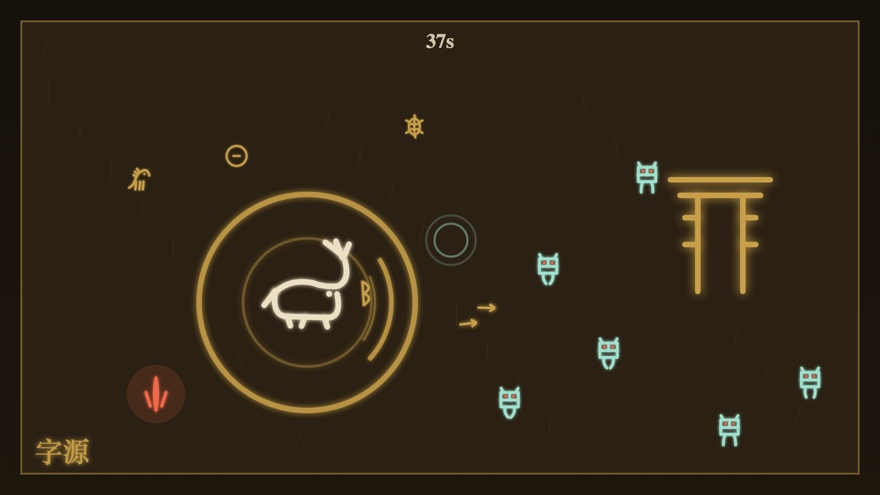
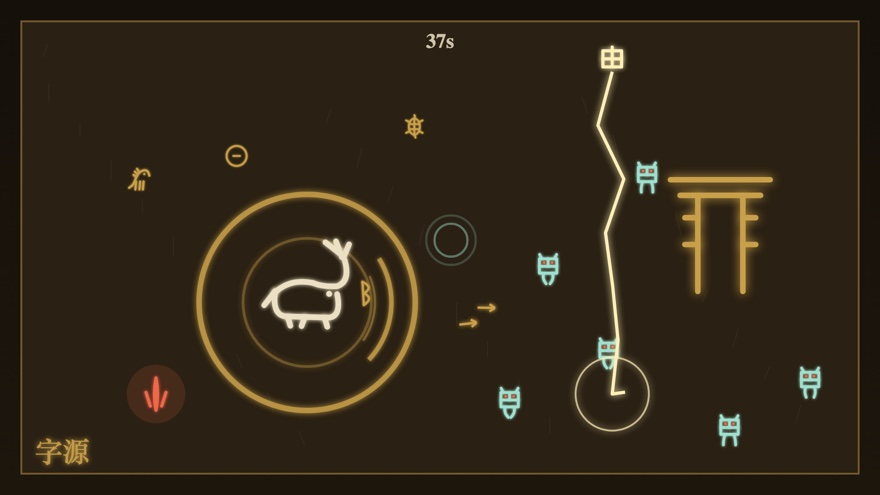
Glyph Run b7: bestiary — 豕 boar, 虎 tiger, 龍 dragon; enemy HP
- Enemy damage layer: tough beasts take multiple hits (hp pips shown,
  white flash on hit, brief hit-invuln so dashes don't melt them)
- 豕 wild boar (wave 2+, 2hp): lines up, shivers, then a straight
  battering charge until it hits a wall — per the zdic 猪 page
- 虎 tiger (wave 3+, 3hp): stalks a circle just out of reach, crouches,
  then pounces
- 龍 dragon (final wave): nine chained segments weave after you; carve
  it apart piece by piece — segments drop glyphs richly
- Heavy strikes (quake, ram, axe, lightning) deal 2-3 damage
- Era-gate overlays announce each new threat; card thumb now shows the
  電 bolt striking the pack

Changed region(s): [[0.6443, 0.0909, 0.7364, 0.8788]]

diff --git a/game/glyphrun.html b/game/glyphrun.html
@@ -100,7 +100,7 @@
   <div>
     <div class="title"><span class="cn">字源</span>GLYPH RUN</div>
     <div class="sub" data-en="Survive the night and you'll travel back in time. You ARE a character — spirits swarm from the dark and your ink strikes back on its own. Fallen glyphs are experience: level up to EVOLVE into related characters, all the way to your oracle-bone form. Every survived wave opens a gate deeper into the past — 楷書 to 甲骨文 — and the night gets harder." data-zh="撑过长夜，就是逆流时光。你就是一个「字」——群鬼自暗处涌来，笔墨自会出手。掉落的古字就是经验：升级即进化成同族新字，直到甲骨文本形。每撑过一波便开一道门，通往更深的古代——从楷书到甲骨文——夜也越难熬。">Survive the night and you'll travel back in time. You ARE a character — spirits swarm from the dark and your ink strikes back on its own. Fallen glyphs are experience: level up to EVOLVE into related characters, all the way to your oracle-bone form. Every survived wave opens a gate deeper into the past — 楷書 to 甲骨文 — and the night gets harder.</div>
-    <a class="back" href="/wip.html" data-en="← back to the wip lab" data-zh="← 返回实验室">← back to the wip lab</a> <span style="color:#3a3a3a;font-size:0.62rem">b6</span>
+    <a class="back" href="/wip.html" data-en="← back to the wip lab" data-zh="← 返回实验室">← back to the wip lab</a> <span style="color:#3a3a3a;font-size:0.62rem">b7</span>
   </div>
   <button class="lang-btn" id="langBtn" onclick="toggleLang()">中文</button>
 </div>
@@ -693,6 +693,68 @@ function drawSpirit(ctx, cx, cy, s, phase, color){
   ctx.restore();
 }
 
+/* --- the tougher beasts: 豕 boar, 虎 tiger, 龍 dragon segments --- */
+function drawBoar(ctx, cx, cy, s, phase, color, face){
+  ctx.save(); ctx.translate(cx, cy); if(face<0) ctx.scale(-1,1);
+  ctx.strokeStyle = color; ctx.fillStyle = color; ctx.shadowColor = color; ctx.shadowBlur = s*0.15;
+  stroke(ctx, s*0.09);
+  const r = s*0.5;
+  ctx.beginPath(); ctx.moveTo(-r,-r*0.15); ctx.quadraticCurveTo(-r*0.2,-r*0.75, r*0.45,-r*0.35);
+  ctx.quadraticCurveTo(r*0.95,-r*0.2, r*0.95, r*0.05); ctx.stroke();
+  ctx.beginPath(); ctx.moveTo(r*0.95,r*0.05); ctx.lineTo(r*0.5,r*0.3); ctx.lineTo(-r*0.85,r*0.28); ctx.lineTo(-r,-r*0.15); ctx.stroke();
+  for(const bx of [-0.5,-0.1,0.3]){ ctx.beginPath(); ctx.moveTo(bx*r,-r*0.5); ctx.lineTo(bx*r+r*0.12,-r*0.82); ctx.stroke(); }
+  const k = Math.sin(phase)*r*0.12;
+  ctx.beginPath(); ctx.moveTo(-r*0.55,r*0.28); ctx.lineTo(-r*0.55+k,r*0.62); ctx.stroke();
+  ctx.beginPath(); ctx.moveTo(r*0.3,r*0.28); ctx.lineTo(r*0.3-k,r*0.62); ctx.stroke();
+  ctx.beginPath(); ctx.moveTo(r*0.8,r*0.12); ctx.lineTo(r*1.04,r*0.32); ctx.stroke();
+  ctx.save(); ctx.fillStyle = '#f0674a'; ctx.shadowColor = '#f0674a';
+  ctx.beginPath(); ctx.arc(r*0.55,-r*0.15,r*0.08,0,Math.PI*2); ctx.fill(); ctx.restore();
+  ctx.restore();
+}
+function drawTiger(ctx, cx, cy, s, phase, color, face, crouch){
+  ctx.save(); ctx.translate(cx, cy); if(face<0) ctx.scale(-1,1);
+  if(crouch) ctx.scale(1, 0.82);
+  ctx.strokeStyle = color; ctx.fillStyle = color; ctx.shadowColor = color; ctx.shadowBlur = s*0.15;
+  stroke(ctx, s*0.08);
+  const r = s*0.5;
+  ctx.beginPath(); ctx.moveTo(-r*0.95,-r*0.1); ctx.quadraticCurveTo(-r*0.1,-r*0.6, r*0.5,-r*0.42); ctx.stroke(); // back
+  ctx.beginPath();                                                                                                // head + open jaw
+  ctx.moveTo(r*0.5,-r*0.42); ctx.quadraticCurveTo(r*0.95,-r*0.5, r*1.0,-r*0.15);
+  ctx.lineTo(r*0.6,0); ctx.moveTo(r*1.0,r*0.05); ctx.lineTo(r*0.62,r*0.18); ctx.stroke();
+  ctx.beginPath(); ctx.moveTo(r*0.62,r*0.18); ctx.lineTo(r*0.4,r*0.3); ctx.lineTo(-r*0.8,r*0.3); ctx.stroke();    // belly
+  ctx.beginPath(); ctx.moveTo(-r*0.8,r*0.3); ctx.lineTo(-r*0.95,-r*0.1); ctx.stroke();
+  ctx.beginPath(); ctx.moveTo(-r*0.95,-r*0.15); ctx.quadraticCurveTo(-r*1.4,-r*0.5,-r*1.3,-r*0.9); ctx.stroke();  // tail
+  for(const st of [-0.45,-0.12,0.2]){                                                                             // stripes
+    ctx.beginPath(); ctx.moveTo(st*r,-r*0.5); ctx.lineTo(st*r-r*0.12,-r*0.05); ctx.stroke();
+  }
+  const k = Math.sin(phase)*r*0.14;
+  ctx.beginPath(); ctx.moveTo(-r*0.5,r*0.3); ctx.lineTo(-r*0.5+k,r*0.66); ctx.stroke();
+  ctx.beginPath(); ctx.moveTo(r*0.25,r*0.3); ctx.lineTo(r*0.25-k,r*0.66); ctx.stroke();
+  ctx.save(); ctx.fillStyle = '#f0674a'; ctx.shadowColor = '#f0674a';
+  ctx.beginPath(); ctx.arc(r*0.68,-r*0.3,r*0.09,0,Math.PI*2); ctx.fill(); ctx.restore();
+  ctx.restore();
+}
+function drawDragonSeg(ctx, sp, color){
+  const r = 15;
+  ctx.save(); ctx.translate(sp.x, sp.y);
+  ctx.strokeStyle = color; ctx.fillStyle = color; ctx.shadowColor = color; ctx.shadowBlur = 6;
+  stroke(ctx, 2.6);
+  if(sp._prev){                                          // body ring + dorsal fin
+    ctx.beginPath(); ctx.arc(0,0,r,0,Math.PI*2); ctx.stroke();
+    ctx.beginPath(); ctx.arc(0,0,r*0.45,-0.6,0.6); ctx.stroke();
+    ctx.beginPath(); ctx.moveTo(0,-r); ctx.lineTo(0,-r-7); ctx.stroke();
+  } else {                                               // the head: horns, whisker, jaw
+    ctx.beginPath(); ctx.arc(0,0,r*1.15,0,Math.PI*2); ctx.stroke();
+    ctx.beginPath(); ctx.moveTo(-r*0.4,-r); ctx.lineTo(-r*0.9,-r*1.8); ctx.stroke();
+    ctx.beginPath(); ctx.moveTo(r*0.4,-r); ctx.lineTo(r*0.9,-r*1.8); ctx.stroke();
+    ctx.beginPath(); ctx.moveTo(r*1.1,r*0.2); ctx.quadraticCurveTo(r*1.9,r*0.4,r*2.1,r*0.1); ctx.stroke();
+    ctx.beginPath(); ctx.moveTo(r*0.5,r*0.5); ctx.lineTo(r*1.4,r*0.85); ctx.stroke();
+    ctx.save(); ctx.fillStyle = '#f0674a'; ctx.shadowColor = '#f0674a';
+    ctx.beginPath(); ctx.arc(r*0.3,-r*0.3,r*0.18,0,Math.PI*2); ctx.fill(); ctx.restore();
+  }
+  ctx.restore();
+}
+
 /* --- 門 gate goal --- */
 function drawGate(ctx, x, groundY, h, color, glow){
   ctx.save();
@@ -891,7 +953,7 @@ const Game = (function(){
   let selChar = 'ren', lastSkillTxt = '', bufSkill = 0, shakeT = 0, slowAllT = 0;
   let player, keys = {}, joy = {x:0, y:0, on:false};
   let spirits = [], pickups = [], fires = [], clouds = [], fx = [], pedestals = [], projectiles = [], bolts = [];
-  let boltT = 5;
+  let boltT = 5, dragonDone = false;
   let weapons = [], wTimes = [];
 
   function overlay(id, show){ $(id).classList.toggle('show', show); }
@@ -904,7 +966,7 @@ const Game = (function(){
     era = ERAS[ERA_ORDER[i]];
     wave = WAVES[i];
     spirits = []; pickups = []; fires = []; clouds = []; fx = []; pedestals = []; projectiles = []; bolts = [];
-    boltT = 5;
+    boltT = 5; dragonDone = false;
     wTimes = [wave.len*0.6, wave.len*0.28];
     waveT = wave.len; spawnT = 1.2; fireT = 3.5; gate = null; slowAllT = 0;
     const c = C();
@@ -957,7 +1019,7 @@ const Game = (function(){
       const cf = cs.forms[level], fe = ERAS[ERA_ORDER[fi]], te = ERAS[ERA_ORDER[toIdx]];
       msg = `<b style="color:#e8b04a">${fe.sub} → ${te.sub}</b>`
           + `<br>${cf.ch} ${cf.py} · ${t(cf.mean_en, cf.mean_zh)} ${zdicLink(cf.ch)}`
-          + `<br><span style="color:#8bc34a;font-size:0.86em">${t('the night deepens — spirits come faster; a heart is mended','夜更深了——群鬼更急；补上一颗心')}${toIdx >= 2 ? t(' — and the storm gathers: 電 strikes from the sky (rain over 申, the bolt itself)','——风雨将至：「電」自天而击（雨在「申」上，申即闪电）') : ''}</span>`
+          + `<br><span style="color:#8bc34a;font-size:0.86em">${t('the night deepens — spirits come faster; a heart is mended','夜更深了——群鬼更急；补上一颗心')}${toIdx===1 ? t(' — and wild 豕 boars charge the field','——野「豕」直线冲撞') : toIdx===2 ? t(' — 虎 stalks the edges, and the storm gathers: 電 strikes from the sky (rain over 申, the bolt itself)','——「虎」环伺于侧；风雨将至，「電」自天而击（雨在「申」上，申即闪电）') : toIdx===3 ? t(' — and 龍 coils through the last night: carve it apart segment by segment','——「龍」盘旋于最后的长夜：须逐节斩落') : ''}</span>`
           + (level < 3 ? `<br><span style="font-size:0.8em;color:#8a8a8a">${t('gather glyphs to evolve','集字以进化')} · ${coins}/${LV_XP[level+1]}</span>` : '');
     } else {
       msg = t(`${cs.forms[level].ch} · the oldest gate is behind you`, `${cs.forms[level].ch} · 最古老的门已在身后`);
@@ -1013,10 +1075,17 @@ const Game = (function(){
 
   /* ---------- combat helpers ---------- */
   function addFx(o){ o.max = o.t; fx.push(o); }
+  function hurtSpirit(s, dmg){
+    if(s.dead || (s.iT||0) > 0) return;
+    s.hp = (s.hp||1) - dmg;
+    s.iT = 0.22;
+    if(s.hp <= 0){ killSpirit(s); return; }
+    addFx({kind:'poof', x:s.x, y:s.y, t:0.15, r:10});
+  }
   function killSpirit(s){
     s.dead = true;
     addFx({kind:'poof', x:s.x, y:s.y, t:0.3, r:20});
-    if(Math.random() < 0.35){
+    if(Math.random() < (s.type==='long' ? 0.6 : 0.35)){
       pickups.push({x:s.x, y:s.y, ch:GLYPH_KEYS[(Math.random()*GLYPH_KEYS.length)|0], t:9, bob:Math.random()*6});
     }
     const c = C();
@@ -1127,7 +1196,7 @@ const Game = (function(){
         const qr = c.quakeR[tier];
         addFx({kind:'quake', x:player.x, y:player.y, t:0.45, r:qr});
         shakeT = 0.3; player.sq = -0.25;
-        for(const s of spirits){ if(!s.dead && Math.hypot(s.x-player.x, s.y-player.y) <= qr+14) killSpirit(s); }
+        for(const s of spirits){ if(!s.dead && Math.hypot(s.x-player.x, s.y-player.y) <= qr+14) hurtSpirit(s, 2); }
         if(tier >= c.snuffTier) fires = fires.filter(f=>Math.hypot(f.x-player.x, f.y-player.y) > qr);  // 豫: stamp the fires out
         if(tier >= c.slowTier) slowAllT = 1.6;                     // 為: the whole field staggers
       }
@@ -1175,7 +1244,7 @@ const Game = (function(){
           addFx({kind:'ringatk', x:player.x, y:player.y, r:range, t:0.22});
         }
         cand.sort((a,b)=>a[0]-b[0]);                       // the ink only cuts so deep
-        for(const [,s] of cand.slice(0, c.atk.hits)) killSpirit(s);
+        for(const [,s] of cand.slice(0, c.atk.hits)) hurtSpirit(s, 1);
         player.atkT = c.atk.int * ATK_INT[tier];
       } else {
         player.atkT = 0.06;
@@ -1188,7 +1257,7 @@ const Game = (function(){
       for(const k of [0, Math.PI]){
         const ox = player.x + Math.cos(player.orbA+k)*58, oy = player.y + Math.sin(player.orbA+k)*58;
         for(const s of spirits){
-          if(!s.dead && Math.hypot(s.x-ox, s.y-oy) < 24) killSpirit(s);
+          if(!s.dead && Math.hypot(s.x-ox, s.y-oy) < 24) hurtSpirit(s, 1);
         }
       }
     }
@@ -1232,7 +1301,7 @@ const Game = (function(){
         }
         if(!cand.length){ w.t = 0.12; continue; }
         cand.sort((a,b)=>a[0]-b[0]);
-        for(const [,s] of cand.slice(0, W.hits[lv])) killSpirit(s);
+        for(const [,s] of cand.slice(0, W.hits[lv])) hurtSpirit(s, 1);
         addFx({kind:'slash', x:player.x, y:player.y, ang:back, r:W.reach[lv]-8, t:0.18});
         w.recoil = 1;
         w.t = W.int[lv];
@@ -1247,7 +1316,7 @@ const Game = (function(){
         }
         if(!cand.length){ w.t = 0.12; continue; }
         cand.sort((a,b)=>a[0]-b[0]);
-        for(const [,s] of cand.slice(0, W.hits[lv])) killSpirit(s);
+        for(const [,s] of cand.slice(0, W.hits[lv])) hurtSpirit(s, 1);
         addFx({kind:'lance', x:player.x, y:player.y, ang:fwd, r:W.reach[lv], t:0.16});
         w.recoil = 1;
         w.t = W.int[lv];
@@ -1256,7 +1325,7 @@ const Game = (function(){
         if(!chop){ w.t = 0.12; continue; }
         const sr = W.splash[lv];
         for(const s of spirits){
-          if(!s.dead && Math.hypot(s.x-chop.x, s.y-chop.y) <= sr) killSpirit(s);
+          if(!s.dead && Math.hypot(s.x-chop.x, s.y-chop.y) <= sr) hurtSpirit(s, 2);
         }
         addFx({kind:'ringatk', x:chop.x, y:chop.y, r:sr, t:0.2});
         w.recoil = 1;
@@ -1270,7 +1339,7 @@ const Game = (function(){
         }
         if(!cand.length){ w.t = 0.1; continue; }
         cand.sort((a,b)=>a[0]-b[0]);
-        for(const [,s] of cand.slice(0, W.hits[lv])) killSpirit(s);
+        for(const [,s] of cand.slice(0, W.hits[lv])) hurtSpirit(s, 1);
         addFx({kind:'ringatk', x:player.x, y:player.y, r:W.reach[lv], t:0.16});
         w.recoil = 1;
         w.t = W.int[lv];
@@ -1293,7 +1362,7 @@ const Game = (function(){
       if(p.x < WALL || p.x > CW-WALL || p.y < WALL || p.y > CH-WALL) p.t = 0;
       for(const s of spirits){
         if(s.dead || p.pierce <= 0) continue;
-        if(Math.hypot(s.x-p.x, s.y-p.y) < 18){ killSpirit(s); p.pierce--; }
+        if(Math.hypot(s.x-p.x, s.y-p.y) < 18){ hurtSpirit(s, 1); p.pierce--; }
       }
       if(p.pierce <= 0) p.t = 0;
     }
@@ -1317,7 +1386,12 @@ const Game = (function(){
             const px = side===0? WALL+8 : side===1? CW-WALL-8 : WALL+20+Math.random()*(CW-WALL*2-40);
             const py = side===2? WALL+14 : side===3? CH-WALL-8 : WALL+20+Math.random()*(CH-WALL*2-40);
             if(Math.hypot(px-player.x, py-player.y) > 130 || tries===5){   // never on top of the player
-              spirits.push({x:px, y:py, phase:Math.random()*6, dead:false,
+              const roll = Math.random();
+              let type = 'gui', hp = 1, cr = 29;
+              if(stageIdx >= 1 && roll < [0,0.18,0.2,0.2][stageIdx]){ type = 'shi'; hp = 2; cr = 30; }
+              else if(stageIdx >= 2 && roll > 1 - [0,0,0.12,0.18][stageIdx]){ type = 'hu'; hp = 3; cr = 34; }
+              spirits.push({x:px, y:py, phase:Math.random()*6, dead:false, type, hp, cr,
+                            st:0, stT:1.5, face:1, dirn:Math.random()<0.5?-1:1,
                             spd: wave.spd*(1+0.35*prog)*(0.85+Math.random()*0.3)});
               addFx({kind:'poof', x:px, y:py, t:0.3, r:18});
               break;
@@ -1335,6 +1409,15 @@ const Game = (function(){
             }
           }
         }
+        // 龍 coils in from the east, halfway through the last night
+        if(stageIdx === 3 && !dragonDone && waveT <= wave.len*0.55){
+          dragonDone = true;
+          for(let i=0; i<9; i++){
+            spirits.push({x:CW-WALL-10, y:WALL+70+i*28, phase:Math.random()*6, dead:false,
+                          type:'long', order:i, hp: i===0?3:2, cr:26, st:0, stT:0, face:-1, dirn:1, spd:95});
+          }
+          addFx({kind:'levelup', x:CW-WALL-40, y:WALL+90, t:0.9, r:80, ch:'龍'});
+        }
         // a weapon surfaces from the dust
         if(wTimes.length && waveT <= wTimes[0]){
           wTimes.shift();
@@ -1350,29 +1433,73 @@ const Game = (function(){
       stageClear(); return;
     }
 
+    // dragon chain bookkeeping: each segment trails the nearest living one ahead
+    const dsegs = spirits.filter(o=>!o.dead && o.type==='long').sort((a,b)=>a.order-b.order);
+    for(let i=0; i<dsegs.length; i++) dsegs[i]._prev = i===0 ? null : dsegs[i-1];
+
     // --- spirits seek ---
     for(const s of spirits){
       if(s.dead) continue;
       s.phase += dt*8;
+      if((s.iT||0) > 0) s.iT -= dt;
       if((s.rootT||0) > 0){ s.rootT -= dt; }
       else {
         let sf = (slowAllT>0 ? 0.45 : 1);
         for(const cl of clouds){ if(Math.hypot(s.x-cl.x, s.y-cl.y) < cl.r){ sf *= 0.45; break; } }
         const ddx = player.x-s.x, ddy = player.y-s.y, d = Math.hypot(ddx,ddy)||1;
-        s.x += (ddx/d)*s.spd*sf*dt + Math.cos(s.phase)*10*dt;
-        s.y += (ddy/d)*s.spd*sf*dt + Math.sin(s.phase*0.8)*10*dt;
+        if(s.type==='shi'){
+          // 豕: line up, shiver, then a straight battering charge
+          if(s.st===1){
+            s.stT -= dt; s.x += Math.sin(s.phase*4)*1.2;
+            if(s.stT<=0){ s.st=2; s.stT=1.1; }
+          } else if(s.st===2){
+            s.stT -= dt;
+            s.x += s.cdx*310*sf*dt; s.y += s.cdy*310*sf*dt;
+            s.face = s.cdx>=0?1:-1;
+            if(s.stT<=0 || s.x<=WALL+7 || s.x>=CW-WALL-7 || s.y<=WALL+13 || s.y>=CH-WALL-7){ s.st=3; s.stT=0.8; }
+          } else if(s.st===3){ s.stT -= dt; if(s.stT<=0) s.st=0; }
+          else {
+            s.x += (ddx/d)*s.spd*0.6*sf*dt; s.y += (ddy/d)*s.spd*0.6*sf*dt;
+            s.face = ddx>=0?1:-1;
+            if(d < 260){ s.st=1; s.stT=0.55; s.cdx=ddx/d; s.cdy=ddy/d; }
+          }
+        } else if(s.type==='hu'){
+          // 虎: stalk a circle just out of reach, then pounce
+          if(s.st===1){ s.stT-=dt; if(s.stT<=0){ s.st=2; s.stT=0.38; s.cdx=ddx/d; s.cdy=ddy/d; } }
+          else if(s.st===2){ s.stT-=dt; s.x+=s.cdx*390*sf*dt; s.y+=s.cdy*390*sf*dt; s.face=s.cdx>=0?1:-1; if(s.stT<=0){ s.st=3; s.stT=0.7; } }
+          else if(s.st===3){ s.stT-=dt; if(s.stT<=0){ s.st=0; s.stT=1.6+Math.random(); } }
+          else {
+            const tx=-ddy/d, ty=ddx/d, err=(d-160)/160;
+            s.x += (tx*s.dirn + (ddx/d)*err)*s.spd*1.1*sf*dt;
+            s.y += (ty*s.dirn + (ddy/d)*err)*s.spd*1.1*sf*dt;
+            s.face = ddx>=0?1:-1;
+            s.stT -= dt; if(s.stT<=0){ s.st=1; s.stT=0.45; }
+          }
+        } else if(s.type==='long'){
+          if(!s._prev){                              // the head weaves toward you
+            const wob = Math.sin(s.phase*1.2)*0.7, ux=ddx/d, uy=ddy/d;
+            s.x += (ux - uy*wob)*95*sf*dt; s.y += (uy + ux*wob)*95*sf*dt;
+            s.face = ddx>=0?1:-1;
+          } else {                                   // the body follows the body
+            const px=s._prev.x-s.x, py=s._prev.y-s.y, pd=Math.hypot(px,py)||1;
+            if(pd>24){ const v=Math.min(260,(pd-24)*9); s.x += px/pd*v*dt; s.y += py/pd*v*dt; }
+          }
+        } else {
+          s.x += (ddx/d)*s.spd*sf*dt + Math.cos(s.phase)*10*dt;
+          s.y += (ddy/d)*s.spd*sf*dt + Math.sin(s.phase*0.8)*10*dt;
+        }
       }
       // light separation so the pack doesn't stack into one 鬼
       for(const o of spirits){
-        if(o===s || o.dead) continue;
+        if(o===s || o.dead || s.type==='long' || o.type==='long') continue;
         const ox = s.x-o.x, oy = s.y-o.y, od = Math.hypot(ox,oy);
         if(od > 0.01 && od < 26){ s.x += ox/od*30*dt; s.y += oy/od*30*dt; }
       }
       s.x = clamp(s.x, WALL+6, CW-WALL-6); s.y = clamp(s.y, WALL+12, CH-WALL-6);
       // touch
-      if(Math.hypot(s.x-player.x, s.y-player.y) < 29){
+      if(Math.hypot(s.x-player.x, s.y-player.y) < (s.cr||29)){
         if(player.dashT > 0 && (selChar==='niu' || (selChar==='ren' && level >= c.killTier))){
-          killSpirit(s);            // the ram / the cutting step
+          hurtSpirit(s, 2);         // the ram / the cutting step
         } else {
           hurtPlayer();
           if(lives <= 0) return;
@@ -1406,7 +1533,7 @@ const Game = (function(){
       if(!b.hit && b.t >= 1.1){
         b.hit = true;
         shakeT = Math.max(shakeT, 0.18);
-        for(const sp of spirits){ if(!sp.dead && Math.hypot(sp.x-b.tx, sp.y-b.ty) <= 48) killSpirit(sp); }
+        for(const sp of spirits){ if(!sp.dead && Math.hypot(sp.x-b.tx, sp.y-b.ty) <= 48) hurtSpirit(sp, 3); }
         if(Math.hypot(player.x-b.tx, player.y-b.ty) <= 52) hurtPlayer();
       }
     }
@@ -1573,8 +1700,20 @@ const Game = (function(){
       ctx.restore();
     }
 
-    // spirits — spectral, red-eyed
-    for(const s of spirits){ if(!s.dead) drawSpirit(ctx, s.x, s.y, 34, s.phase, GHOST); }
+    // spirits — spectral, red-eyed; the tough ones flash white when struck
+    for(const s of spirits){
+      if(s.dead) continue;
+      const col = (s.iT||0) > 0.12 ? '#ffffff' : GHOST;
+      if(s.type==='shi') drawBoar(ctx, s.x, s.y, 38, s.phase, col, s.face||1);
+      else if(s.type==='hu') drawTiger(ctx, s.x, s.y, 48, s.phase, col, s.face||1, s.st===1);
+      else if(s.type==='long') drawDragonSeg(ctx, s, col);
+      else drawSpirit(ctx, s.x, s.y, 34, s.phase, col);
+      if((s.hp||1) > 1 && s.type!=='long'){
+        ctx.save(); ctx.fillStyle = '#f0674a';
+        for(let h=0; h<s.hp; h++) ctx.fillRect(s.x-7+h*6, s.y-36, 4, 4);
+        ctx.restore();
+      }
+    }
 
     // the flock orbiters 羴
     if(selChar==='yang' && level >= CHARS.yang.orbTier){

diff --git a/wip.html b/wip.html
@@ -74,10 +74,10 @@
 
   <div class="card">
     <div class="ribbon " data-en="1UP · NEW" data-zh="1UP · 新">1UP · NEW</div>
-    <img class="card-thumb" src="/game/thumbs/glyphrun.jpg?v=3" alt="Glyph Run arena: the oracle-bone 為 elephant mid-quake as 鬼 spirits swarm toward the gate" loading="lazy" width="440" height="240">
+    <img class="card-thumb" src="/game/thumbs/glyphrun.jpg?v=4" alt="Glyph Run arena: the oracle-bone 為 elephant mid-quake as 鬼 spirits swarm toward the gate" loading="lazy" width="440" height="240">
     <div class="card-icon" style="color:#e8b04a">[字]</div>
     <div class="card-title" data-en="glyph_run.exe" data-zh="字源.exe">glyph_run.exe</div>
-    <div class="card-desc" data-en="A top-down arena survivor (think Brotato) where you ARE a Chinese character. 鬼 spirits swarm, your ink auto-slashes, and glyph drops are XP — level up to EVOLVE into related characters with stronger skills: 人→大→夫→舞 (dash), 牛→牢→牧→犇 (ram), 羊→羔→美→羴 (wool clouds), 象→像→豫→為 (earthshaker stomp). You start with a modern 弓 that fires on its own; weapon drops recast your arsenal in ever-older script — the bow becomes oracle 射 — plus 戈·矛·斤·刀·網, three carried at once. The script rewinds an era each wave — 楷書 → 篆書 → 金文 → 甲骨文 — and in the deep past the sky itself attacks: 電 hovers, then its tail-stroke lashes down as a lightning bolt." data-zh="俯视角乱斗生存（类 Brotato），而你就是一个汉字。「鬼」四面涌来，笔墨自动出斩；掉落古字即经验——升级进化成同族新字，技能更强：人→大→夫→舞（疾步）、牛→牢→牧→犇（冲撞）、羊→羔→美→羴（云绒）、象→像→豫→為（撼地重踏）。开局自带现代「弓」，箭矢自动离弦；拾取兵器以更古字体重铸——弓终成甲骨「射」——还有戈·矛·斤·刀·网，可携三件。字体逐波倒退——楷书 → 篆书 → 金文 → 甲骨文——深入古代后连天空也会出手：「電」悬于空中，尾笔化作闪电劈落。">A top-down arena survivor (think Brotato) where you ARE a Chinese character. 鬼 spirits swarm, your ink auto-slashes, and glyph drops are XP — level up to EVOLVE into related characters with stronger skills: 人→大→夫→舞 (dash), 牛→牢→牧→犇 (ram), 羊→羔→美→羴 (wool clouds), 象→像→豫→為 (earthshaker stomp). You start with a modern 弓 that fires on its own; weapon drops recast your arsenal in ever-older script — the bow becomes oracle 射 — plus 戈·矛·斤·刀·網, three carried at once. The script rewinds an era each wave — 楷書 → 篆書 → 金文 → 甲骨文 — and in the deep past the sky itself attacks: 電 hovers, then its tail-stroke lashes down as a lightning bolt.</div>
+    <div class="card-desc" data-en="A top-down arena survivor (think Brotato) where you ARE a Chinese character. 鬼 spirits swarm — joined deeper in time by charging 豕 boars, pouncing 虎 tigers, and a nine-segment 龍 — your ink auto-slashes, and glyph drops are XP — level up to EVOLVE into related characters with stronger skills: 人→大→夫→舞 (dash), 牛→牢→牧→犇 (ram), 羊→羔→美→羴 (wool clouds), 象→像→豫→為 (earthshaker stomp). You start with a modern 弓 that fires on its own; weapon drops recast your arsenal in ever-older script — the bow becomes oracle 射 — plus 戈·矛·斤·刀·網, three carried at once. The script rewinds an era each wave — 楷書 → 篆書 → 金文 → 甲骨文 — and in the deep past the sky itself attacks: 電 hovers, then its tail-stroke lashes down as a lightning bolt." data-zh="俯视角乱斗生存（类 Brotato），而你就是一个汉字。「鬼」四面涌来——越往古代，还有直冲的「豕」、扑袭的「虎」与九节长「龍」；笔墨自动出斩；掉落古字即经验——升级进化成同族新字，技能更强：人→大→夫→舞（疾步）、牛→牢→牧→犇（冲撞）、羊→羔→美→羴（云绒）、象→像→豫→為（撼地重踏）。开局自带现代「弓」，箭矢自动离弦；拾取兵器以更古字体重铸——弓终成甲骨「射」——还有戈·矛·斤·刀·网，可携三件。字体逐波倒退——楷书 → 篆书 → 金文 → 甲骨文——深入古代后连天空也会出手：「電」悬于空中，尾笔化作闪电劈落。">A top-down arena survivor (think Brotato) where you ARE a Chinese character. 鬼 spirits swarm — joined deeper in time by charging 豕 boars, pouncing 虎 tigers, and a nine-segment 龍 — your ink auto-slashes, and glyph drops are XP — level up to EVOLVE into related characters with stronger skills: 人→大→夫→舞 (dash), 牛→牢→牧→犇 (ram), 羊→羔→美→羴 (wool clouds), 象→像→豫→為 (earthshaker stomp). You start with a modern 弓 that fires on its own; weapon drops recast your arsenal in ever-older script — the bow becomes oracle 射 — plus 戈·矛·斤·刀·網, three carried at once. The script rewinds an era each wave — 楷書 → 篆書 → 金文 → 甲骨文 — and in the deep past the sky itself attacks: 電 hovers, then its tail-stroke lashes down as a lightning bolt.</div>
     <div class="card-tags">
       <span class="tag wip" data-en="wip" data-zh="施工中">wip</span>
       <span class="tag green" data-en="arena survivor" data-zh="乱斗生存">arena survivor</span>
@@ -87,7 +87,7 @@
     </div>
     <div class="card-footer">
       <span class="card-meta" data-en="JS · canvas" data-zh="JS · canvas">JS · canvas</span>
-      <a class="play-btn" href="/game/glyphrun.html?v=b6" data-en="→ play" data-zh="→ 游玩">→ play</a>
+      <a class="play-btn" href="/game/glyphrun.html?v=b7" data-en="→ play" data-zh="→ 游玩">→ play</a>
     </div>
   </div>
 